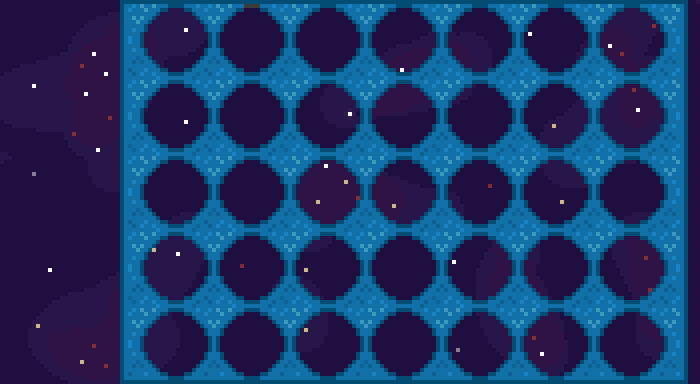
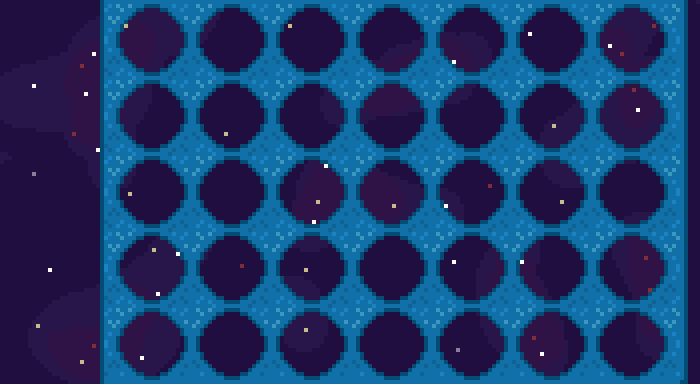
terminado4enrayap1vsp2

diff --git a/js/connect4.js b/js/connect4.js
@@ -3,20 +3,20 @@ class Connect4{
         this.numCol=7; //Numero columnas
         this.numRow=5;  //Numero filas
         //this.col=new array(7)
-        this.boardPosition={x:55*screenSize.multiplier,y:95*screenSize.multiplier};
+        this.boardPosition={x:49*screenSize.multiplier,y:95*screenSize.multiplier};
         //this.SelectColPosition={x:54*screenSize.multiplier,y:20*screenSize.multiplier}
         this.select=true; //Para controlar cuando se puede seleccionar una columna
         this.player=1; //Para indicar el jugador activo
 
         //Muestra controles y cosas de la izquierda
-        this.playerCoin= new ImageDraw(position={x:26,y:34},16,16,imgConnect4Piece) //Para dibujar que jugador esta activo en este momento
-        this.playerText= new WriteText(position={x:34,y:43},15,12,'2',15);
-        this.turnText= new WriteText(position={x:35,y:29},15,15,'Player',6,'white')
+        this.playerCoin= new ImageDraw(position={x:23,y:34},16,16,imgConnect4Piece) //Para dibujar que jugador esta activo en este momento
+        this.playerText= new WriteText(position={x:31,y:43},15,12,'2',15);
+        this.turnText= new WriteText(position={x:33,y:29},15,15,'Player',6,'white')
 
         //Muestra avisos de ganador o empate
         this.textbg= new ImageDraw(position={x:55,y:35},109,56,imgConnect4TextBg)
-        this.resetButton= new ImageDraw(position={x:25,y:85},18,18,imgConnect4Reset)
-        this.resetText = new WriteText(position={x:34,y:80},15,15,'Reset',6,'white')
+        this.resetButton= new ImageDraw(position={x:23,y:85},18,18,imgConnect4Reset)
+        this.resetText = new WriteText(position={x:32,y:80},15,15,'Reset',6,'white')
         this.winner=0;
         this.tie=false;
         this.tieText= new WriteText(position={x:110,y:70},15,12,'Empate',16,'white');
@@ -32,7 +32,7 @@ class Connect4{
         this.board= new Array(this.numCol); //Tablero
         for(var i=0;i<this.numCol;i++){
             this.columnSelected[i]=new Array(2)
-            this.columnSelected[i][0]=new Border(position={x:53+i*19,y:17},20,96)
+            this.columnSelected[i][0]=new Border(position={x:47+i*20,y:17},20,96)
             this.columnSelected[i][1]=false 
 
             this.boardfull[i]=0; //Declaramos todas las columnas como que estan vacias
@@ -44,7 +44,8 @@ class Connect4{
             }
         }
 
-        this.pieceSpace = 3* screenSize.multiplier; //Espacio entre fichas
+        this.pieceSpacecol = 4* screenSize.multiplier; //Espacio entre fichas
+        this.pieceSpacerow = 3* screenSize.multiplier; //Espacio entre fichas
         
        // this.board[0][0]=1;
        // this.board[0][1]=1;
@@ -68,7 +69,8 @@ class Connect4{
         for(var i=0;i<this.numCol;i++){ //Dibujamos cada ficha
             for(var j=0; j<this.numRow;j++){
                 if(this.board[i][j]!=0){
-                    this.piece.position=position={x:this.boardPosition.x+this.piece.width*i+this.pieceSpace*i,y:this.boardPosition.y-this.piece.height*j-this.pieceSpace*j};
+                    this.piece.position=position={x:this.boardPosition.x+this.piece.width*i+this.pieceSpacecol*i,
+                                                y:this.boardPosition.y-this.piece.height*j-this.pieceSpacerow*j};
                     this.piece.row=this.board[i][j]-1; //Le ponemos la ficha del jugador
                     this.piece.drawSprite();
                 }             

diff --git a/js/script.js b/js/script.js
@@ -88,9 +88,12 @@ function tvClickEvents(click){
                 }
                 //Boton de reset
                 if(mousePosition(connect4.resetButton)){
+                    connect4.resetButton.column=1
                     if(click==1){
                         connect4.reset();
                     }
+                }else{
+                    connect4.resetButton.column=0
                 }
                 
             }
